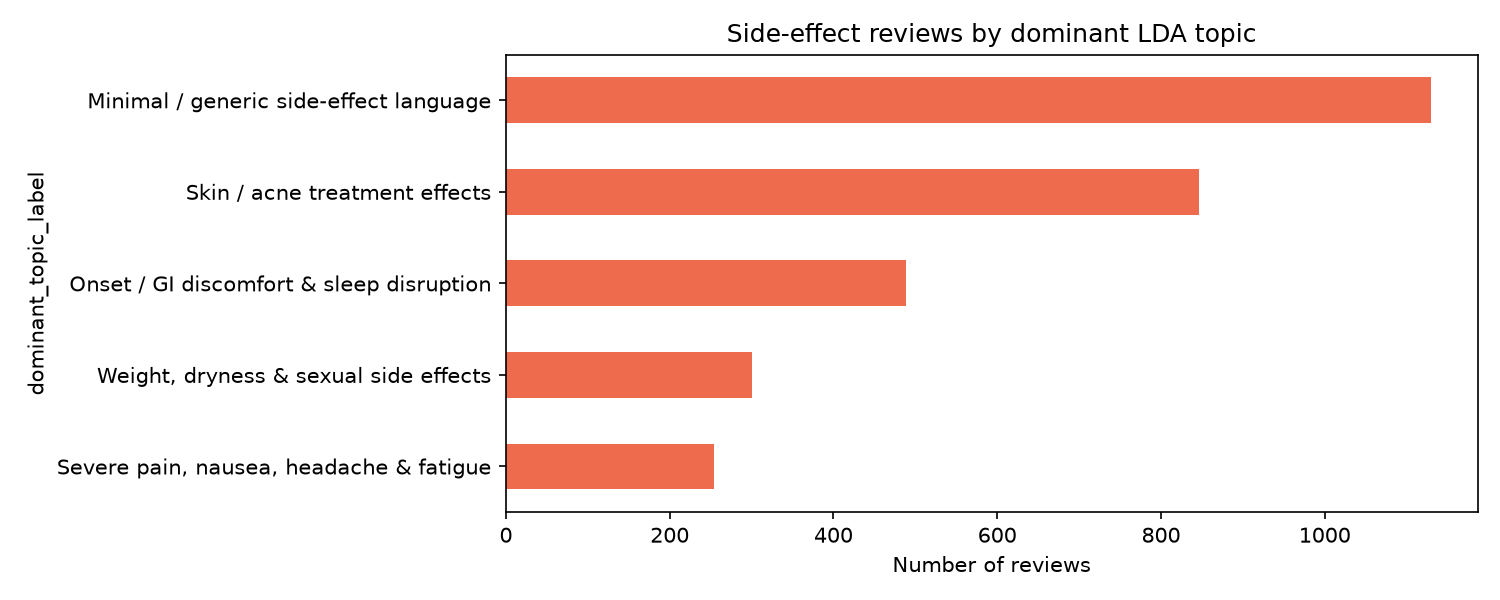
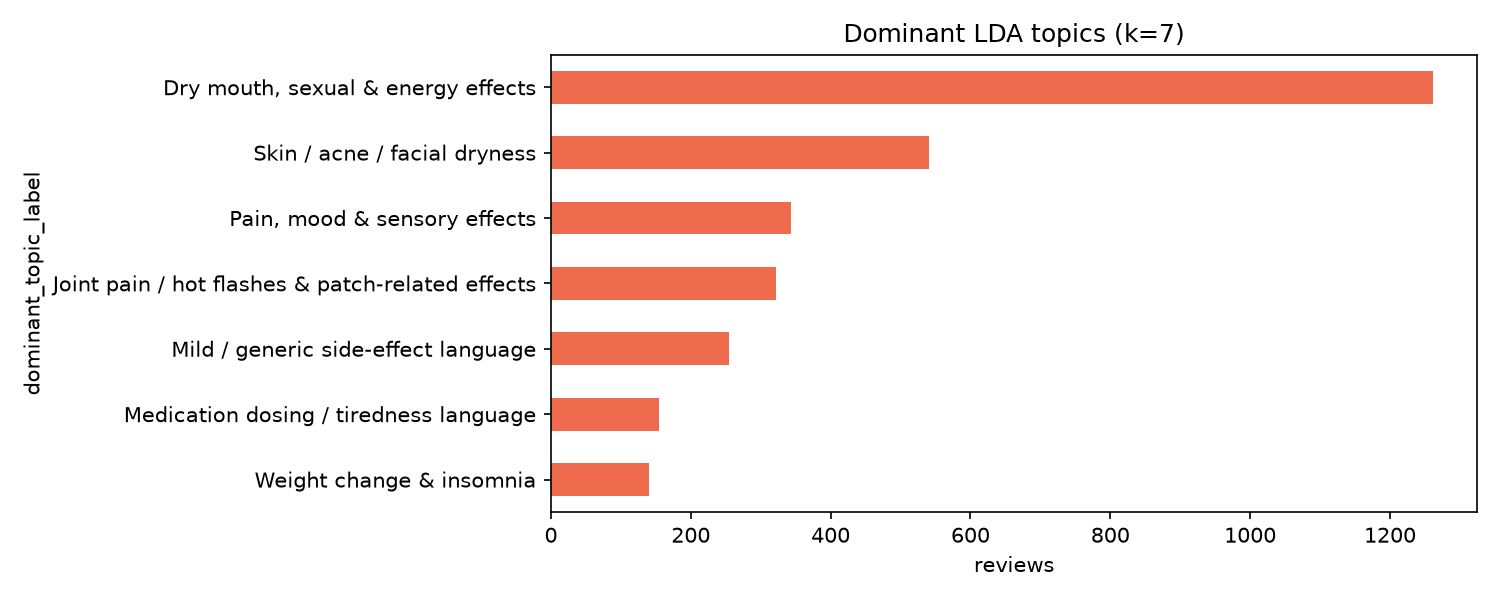
Pin Model 2 to k=7 and relabel topics from development keywords
Fix LDA selection at seven topics with manual labels matching the
development-machine keyword sets, stabilize c_v with processes=1,
and refresh Streamlit recommendations for topics 0–6.

diff --git a/app/streamlit_app.py b/app/streamlit_app.py
@@ -366,12 +366,12 @@ else:
                             "suggestion": suggestion,
                         }
                     )
-                    warn = tid == 2  # severe systemic topic
+                    warn = tid in {0, 5, 6}  # higher-concern themes in k=7 labeling
                     card(
                         f"<b>Topic {tid}: {tip_block.get('label', label)}</b> "
                         f"(score {p:.0%})<br/>{suggestion}",
                         warn=warn,
-                        ok=(tid == 1),
+                        ok=(tid == 2),
                     )
 
                 chart_df = pd.DataFrame(rows).set_index("label")["probability"]
